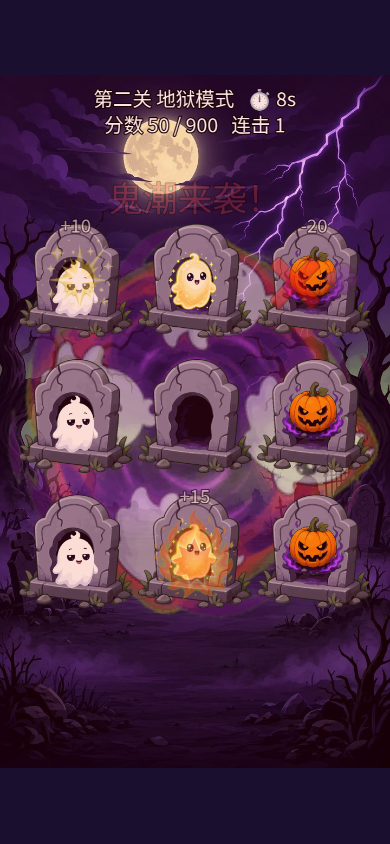
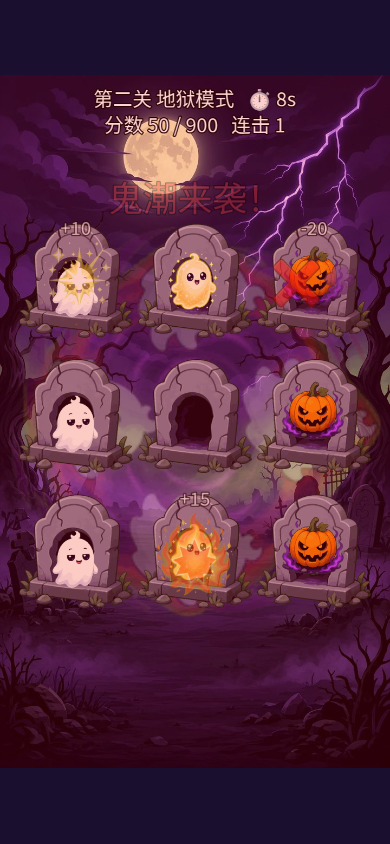
Art: new level-1 bg; fx_swarm alpha 0.3 behind tombs; verified spawn caps

Changed region(s): [[0.0, 0.2464, 0.9846, 0.7393], [0.7692, 0.2464, 0.8615, 0.2773], [0.8923, 0.3081, 0.9231, 0.3389]]

diff --git a/src/scenes.js b/src/scenes.js
@@ -118,7 +118,7 @@ export class PlayScene extends Phaser.Scene {
       this.tweens.add({ targets: w, alpha: 0, duration: 1500, onComplete: () => w.destroy() });
       this.cameras.main.shake(400, 0.01);
       this.swarm = this.add.image(360, 640, SKIN.atlas.key, 'fx_swarm').setScale(1).setAlpha(0).setDepth(-1);
-      this.tweens.add({ targets: this.swarm, scale: 3.6, alpha: 0.55, duration: 600 });
+      this.tweens.add({ targets: this.swarm, scale: 3.6, alpha: 0.3, duration: 600 });
       this.tweens.add({ targets: this.swarm, angle: 360, duration: 4000, repeat: -1 });
       this.tweens.add({ targets: this.flash, fillAlpha: 0.25, duration: 300, yoyo: true, repeat: 3 });
     }
